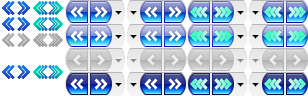
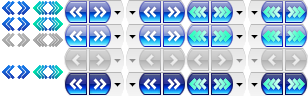
ズレを修正
git-svn-id: https://www.cozmixng.org/repos/piro/rewindforward/trunk@2194 599a83e7-65a4-db11-8015-0010dcdd6dc2

diff --git a/skin/classic/rewindforward-luna/toolbar.css b/skin/classic/rewindforward-luna/toolbar.css
@@ -201,26 +201,26 @@
 }
 
 [iconsize="small"] #back-button[rewindforward-override="navigation"] {
-	-moz-image-region: rect(0px 89px 24px 64px) !important;
+	-moz-image-region: rect(0px 88px 24px 64px) !important;
 }
 [iconsize="small"] #back-button[rewindforward-override="navigation"][buttonover="true"],
 [iconsize="small"] #back-button[rewindforward-override="navigation"]:hover {
-	-moz-image-region: rect(24px 89px 48px 64px) !important;
+	-moz-image-region: rect(24px 88px 48px 64px) !important;
 }
 [iconsize="small"] #back-button[rewindforward-override="navigation"]:not([disabled="true"])[buttonover="true"]:active,
 [iconsize="small"] #back-button[rewindforward-override="navigation"]:not([disabled="true"]):hover:active {
-	-moz-image-region: rect(72px 89px 96px 64px) !important;
+	-moz-image-region: rect(72px 88px 96px 64px) !important;
 }
 [iconsize="small"] #back-button[rewindforward-override="link"] {
-	-moz-image-region: rect(0px 211px 16px 187px) !important;
+	-moz-image-region: rect(0px 210px 16px 186px) !important;
 }
 [iconsize="small"] #back-button[rewindforward-override="link"][buttonover="true"],
 [iconsize="small"] #back-button[rewindforward-override="link"]:hover {
-	-moz-image-region: rect(24px 211px 48px 187px) !important;
+	-moz-image-region: rect(24px 210px 48px 186px) !important;
 }
 [iconsize="small"] #back-button[rewindforward-override="link"]:not([disabled="true"])[buttonover="true"]:active,
 [iconsize="small"] #back-button[rewindforward-override="link"]:not([disabled="true"]):hover:active {
-	-moz-image-region: rect(72px 211px 96px 187px) !important;
+	-moz-image-region: rect(72px 210px 96px 186px) !important;
 }
 
 #forward-button[rewindforward-override="navigation"] {
@@ -247,26 +247,26 @@
 }
 
 [iconsize="small"] #forward-button[rewindforward-override="navigation"] {
-	-moz-image-region: rect(0px 113px 16px 89px) !important;
+	-moz-image-region: rect(0px 112px 24px 88px) !important;
 }
 [iconsize="small"] #forward-button[rewindforward-override="navigation"][buttonover="true"],
 [iconsize="small"] #forward-button[rewindforward-override="navigation"]:hover {
-	-moz-image-region: rect(24px 113px 48px 89px) !important;
+	-moz-image-region: rect(24px 112px 48px 88px) !important;
 }
 [iconsize="small"] #forward-button[rewindforward-override="navigation"]:not([disabled="true"])[buttonover="true"]:active,
 [iconsize="small"] #forward-button[rewindforward-override="navigation"]:not([disabled="true"]):hover:active {
-	-moz-image-region: rect(72px 113px 96px 89px) !important;
+	-moz-image-region: rect(72px 112px 96px 88px) !important;
 }
 [iconsize="small"] #forward-button[rewindforward-override="link"] {
-	-moz-image-region: rect(0px 235px 24px 211px) !important;
+	-moz-image-region: rect(0px 234px 24px 210px) !important;
 }
 [iconsize="small"] #forward-button[rewindforward-override="link"][buttonover="true"],
 [iconsize="small"] #forward-button[rewindforward-override="link"]:hover {
-	-moz-image-region: rect(24px 235px 48px 211px) !important;
+	-moz-image-region: rect(24px 234px 48px 210px) !important;
 }
 [iconsize="small"] #forward-button[rewindforward-override="link"]:not([disabled="true"])[buttonover="true"]:active,
 [iconsize="small"] #forward-button[rewindforward-override="link"]:not([disabled="true"]):hover:active {
-	-moz-image-region: rect(72px 235px 96px 211px) !important;
+	-moz-image-region: rect(72px 234px 96px 210px) !important;
 }
 
 
@@ -296,26 +296,26 @@
 }
 
 [iconsize="small"] #back-button[chromedir="rtl"][rewindforward-override="navigation"] {
-	-moz-image-region: rect(0px 187px 24px 163px) !important;
+	-moz-image-region: rect(0px 186px 24px 162px) !important;
 }
 [iconsize="small"] #back-button[chromedir="rtl"][rewindforward-override="navigation"][buttonover="true"],
 [iconsize="small"] #back-button[chromedir="rtl"][rewindforward-override="navigation"]:hover {
-	-moz-image-region: rect(24px 187px 48px 163px) !important;
+	-moz-image-region: rect(24px 186px 48px 162px) !important;
 }
 [iconsize="small"] #back-button[chromedir="rtl"][rewindforward-override="navigation"]:not([disabled="true"])[buttonover="true"]:active,
 [iconsize="small"] #back-button[chromedir="rtl"][rewindforward-override="navigation"]:not([disabled="true"]):hover:active {
-	-moz-image-region: rect(72px 187px 96px 163px) !important;
+	-moz-image-region: rect(72px 186px 96px 162px) !important;
 }
 [iconsize="small"] #back-button[chromedir="rtl"][rewindforward-override="link"] {
-	-moz-image-region: rect(0px 309px 16px 285px) !important;
+	-moz-image-region: rect(0px 308px 16px 284px) !important;
 }
 [iconsize="small"] #back-button[chromedir="rtl"][rewindforward-override="link"][buttonover="true"],
 [iconsize="small"] #back-button[chromedir="rtl"][rewindforward-override="link"]:hover {
-	-moz-image-region: rect(24px 309px 48px 285px) !important;
+	-moz-image-region: rect(24px 308px 48px 284px) !important;
 }
 [iconsize="small"] #back-button[chromedir="rtl"][rewindforward-override="link"]:not([disabled="true"])[buttonover="true"]:active,
 [iconsize="small"] #back-button[chromedir="rtl"][rewindforward-override="link"]:not([disabled="true"]):hover:active {
-	-moz-image-region: rect(72px 309px 96px 285px) !important;
+	-moz-image-region: rect(72px 308px 96px 284px) !important;
 }
 
 
@@ -343,24 +343,24 @@
 }
 
 [iconsize="small"] #forward-button[chromedir="rtl"][rewindforward-override="navigation"] {
-	-moz-image-region: rect(0px 163px 16px 139px) !important;
+	-moz-image-region: rect(0px 162px 24px 138px) !important;
 }
 [iconsize="small"] #forward-button[chromedir="rtl"][rewindforward-override="navigation"][buttonover="true"],
 [iconsize="small"] #forward-button[chromedir="rtl"][rewindforward-override="navigation"]:hover {
-	-moz-image-region: rect(24px 163px 48px 139px) !important;
+	-moz-image-region: rect(24px 162px 48px 138px) !important;
 }
 [iconsize="small"] #forward-button[chromedir="rtl"][rewindforward-override="navigation"]:not([disabled="true"])[buttonover="true"]:active,
 [iconsize="small"] #forward-button[chromedir="rtl"][rewindforward-override="navigation"]:not([disabled="true"]):hover:active {
-	-moz-image-region: rect(72px 163px 96px 139px) !important;
+	-moz-image-region: rect(72px 162px 96px 138px) !important;
 }
 [iconsize="small"] #forward-button[chromedir="rtl"][rewindforward-override="link"] {
-	-moz-image-region: rect(0px 285px 24px 261px) !important;
+	-moz-image-region: rect(0px 284px 24px 260px) !important;
 }
 [iconsize="small"] #forward-button[chromedir="rtl"][rewindforward-override="link"][buttonover="true"],
 [iconsize="small"] #forward-button[chromedir="rtl"][rewindforward-override="link"]:hover {
-	-moz-image-region: rect(24px 285px 48px 261px) !important;
+	-moz-image-region: rect(24px 284px 48px 260px) !important;
 }
 [iconsize="small"] #forward-button[chromedir="rtl"][rewindforward-override="link"]:not([disabled="true"])[buttonover="true"]:active,
 [iconsize="small"] #forward-button[chromedir="rtl"][rewindforward-override="link"]:not([disabled="true"]):hover:active {
-	-moz-image-region: rect(72px 285px 96px 261px) !important;
+	-moz-image-region: rect(72px 284px 96px 260px) !important;
 }
